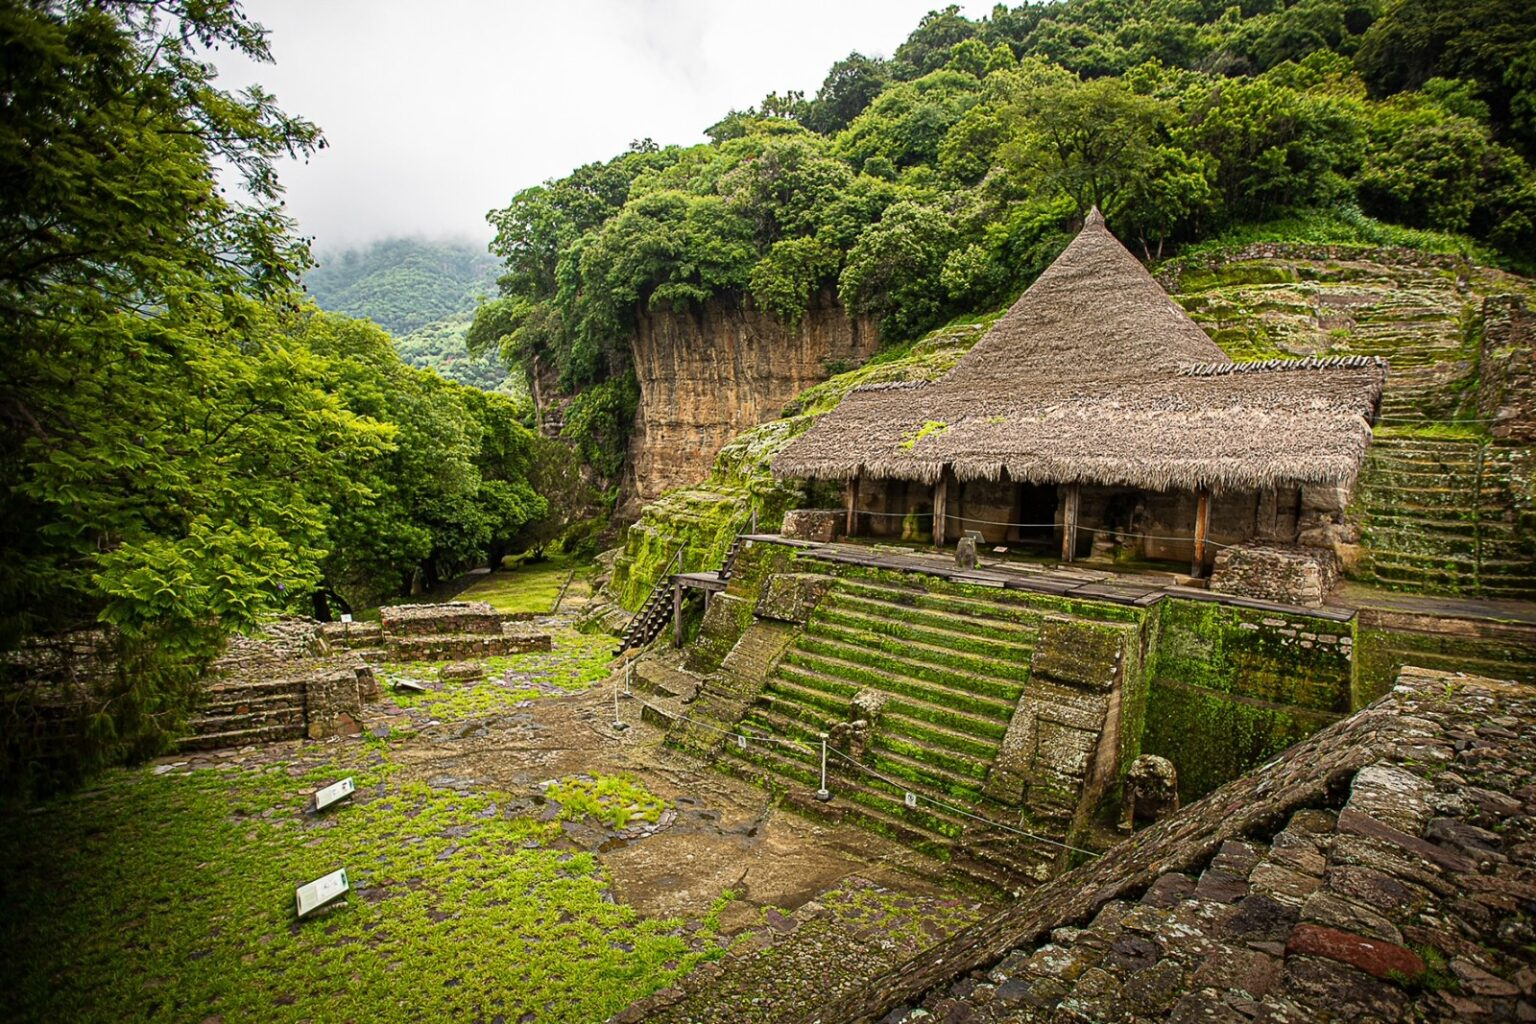
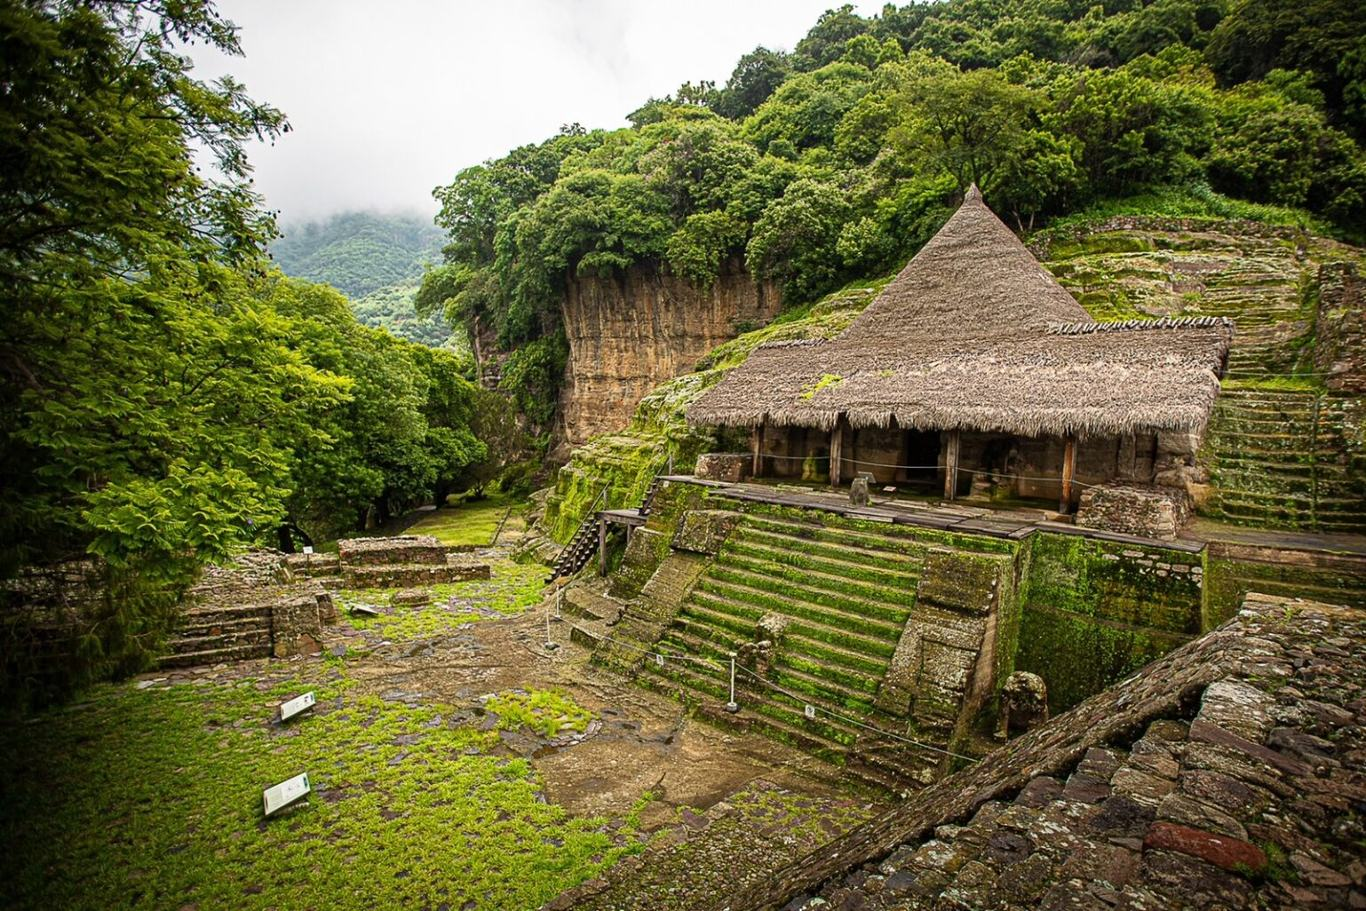
Perf: imagen del header (hero/LCP) en WebP responsive (#32)
* SEO: reescribe titles y meta descriptions de 9 posts (posicion 6-9) para subir CTR

Optimiza el title y la meta description de los posts con muchas impresiones
y CTR bajo (1-2%) en Search Console, poniendo la keyword al frente y un
angulo de destino/escapada alineado al objetivo de reserva directa.

Posts: malinalxochitl-leyenda, guerreros-aguila-jaguar, fiesta-divino-salvador,
malinalco-pueblo-magico-historia, 10-restaurantes-malinalco, subida-cerro-idolos,
convento-agustino-malinalco, donde-desayunar-malinalco, casa-de-las-aguilas.

Solo se tocan <title> y <meta name=description>; og:/twitter y JSON-LD intactos.

Claude-Session: https://claude.ai/code/session_01LVtjr9evHjkHtEahRNAHYH

* Home: enlaza la money page 'donde hospedarse' desde la seccion de blog

Agrega una 4a blog-card en el home que apunta a /blog/donde-hospedarse-malinalco/
con anchor text keyword-rich. El home es la pagina con mas autoridad del sitio;
este enlace interno ayuda a subir esa money page (hoy en posicion ~14 en Search
Console) y canaliza trafico a la reserva directa.

Claude-Session: https://claude.ai/code/session_01LVtjr9evHjkHtEahRNAHYH

* Money-page treatment para escapada-romantica y con-familia

Agrega a ambos posts los 2 elementos de conversion que les faltaban vs la
guia de hospedaje, para reforzar la intencion de reserva:
- Stat-box de confianza tras el hero (8 anios, 4.93, +400 resenias, desde
  $600, centro, -20% vs Airbnb) con estilos inline y rejilla responsive.
[…]

diff --git a/index.html b/index.html
@@ -9,7 +9,8 @@
     <meta name="viewport" content="width=device-width, initial-scale=1.0"/>
     <!-- Rendimiento: conexión temprana + precarga de la imagen del hero (mejora el LCP y evita el parpadeo) -->
     <link rel="preconnect" href="https://cdnjs.cloudflare.com" crossorigin>
-    <link rel="preload" as="image" href="./images/malinalco/ZonaArqueologica.jpg" fetchpriority="high">
+    <link rel="preload" as="image" href="./images/malinalco/ZonaArqueologica-mobile.webp" type="image/webp" media="(max-width:768px)" fetchpriority="high">
+    <link rel="preload" as="image" href="./images/malinalco/ZonaArqueologica.webp" type="image/webp" media="(min-width:769px)" fetchpriority="high">
     <!-- Font Awesome sin bloquear el render (con respaldo para navegadores sin JS) -->
     <link rel="preload" as="style" href="https://cdnjs.cloudflare.com/ajax/libs/font-awesome/6.5.0/css/all.min.css" onload="this.onload=null;this.rel='stylesheet'">
     <noscript><link rel="stylesheet" href="https://cdnjs.cloudflare.com/ajax/libs/font-awesome/6.5.0/css/all.min.css"></noscript>
@@ -2224,9 +2225,24 @@
   .hero { position: relative; overflow: hidden; background: none; }
   .hero::before {
     content: ""; position: absolute; inset: 0; z-index: 0;
+    /* Fallback JPG para navegadores sin image-set */
     background: linear-gradient(135deg, rgba(28,28,28,0.45) 0%, rgba(74,124,111,0.30) 100%),
       url('./images/malinalco/ZonaArqueologica.jpg') center/cover no-repeat;
+    /* WebP con fallback JPG (desktop) */
+    background: linear-gradient(135deg, rgba(28,28,28,0.45) 0%, rgba(74,124,111,0.30) 100%),
+      image-set(url('./images/malinalco/ZonaArqueologica.webp') type('image/webp'),
+                url('./images/malinalco/ZonaArqueologica.jpg') type('image/jpeg')) center/cover no-repeat;
     transform: scale(1.04); animation: kenburns 34s ease-in-out infinite alternate;
+  }
+  /* Hero más ligero en móvil (800px) — el grueso del tráfico */
+  @media (max-width:768px) {
+    .hero::before {
+      background-image: linear-gradient(135deg, rgba(28,28,28,0.45) 0%, rgba(74,124,111,0.30) 100%),
+        url('./images/malinalco/ZonaArqueologica-mobile.jpg');
+      background-image: linear-gradient(135deg, rgba(28,28,28,0.45) 0%, rgba(74,124,111,0.30) 100%),
+        image-set(url('./images/malinalco/ZonaArqueologica-mobile.webp') type('image/webp'),
+                  url('./images/malinalco/ZonaArqueologica-mobile.jpg') type('image/jpeg'));
+    }
   }
   .hero-content { position: relative; z-index: 1; }
   @keyframes kenburns {
